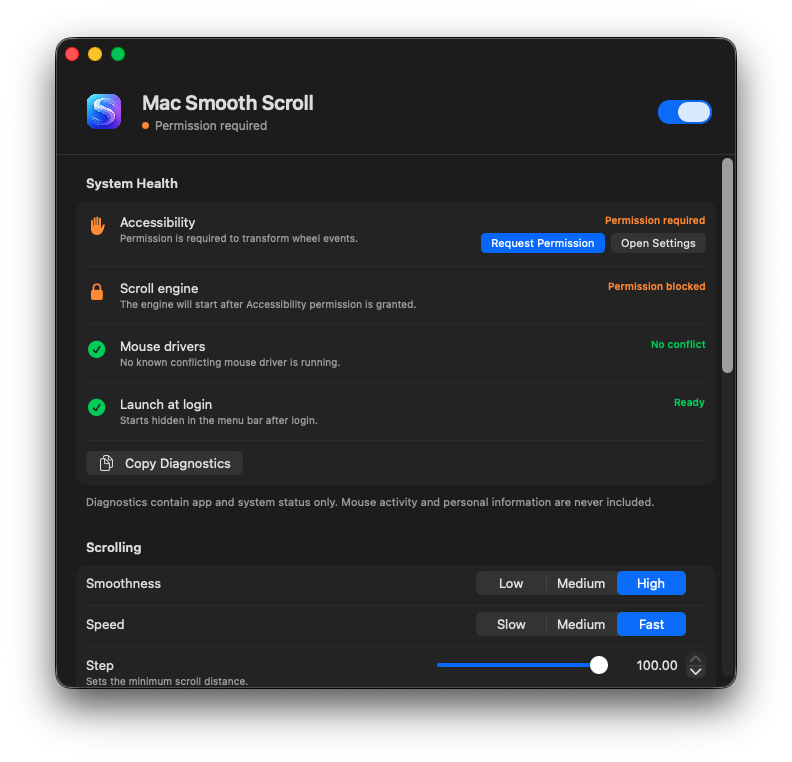
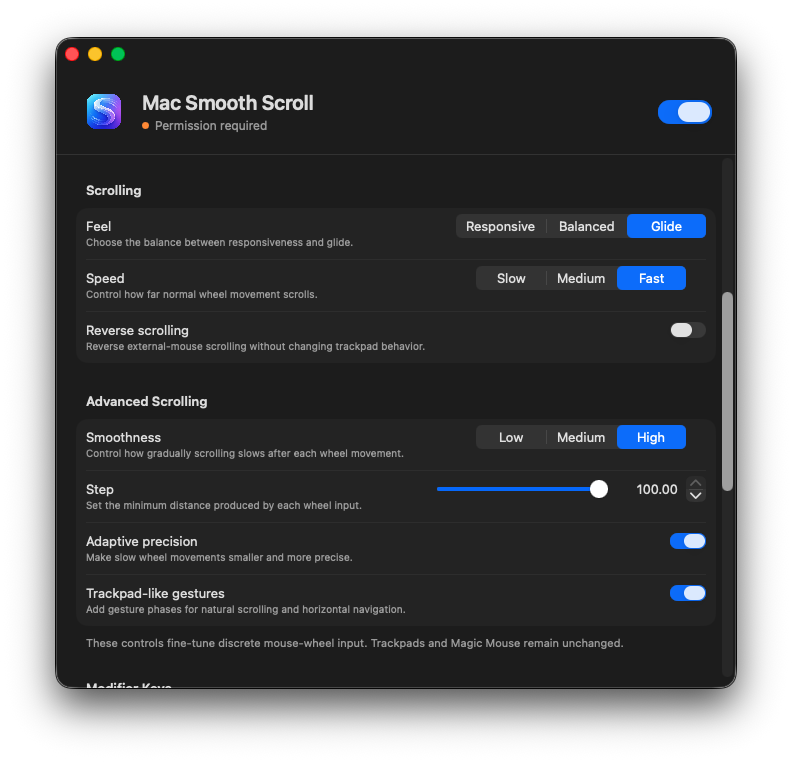
Organize scrolling settings

diff --git a/Sources/MacSmoothScroll/SettingsView.swift b/Sources/MacSmoothScroll/SettingsView.swift
@@ -12,6 +12,7 @@ struct SettingsView: View {
             Form {
                 systemHealthSection
                 scrollingSection
+                advancedScrollingSection
                 modifierSection
                 appSection
             }
@@ -25,7 +26,7 @@ struct SettingsView: View {
                 settings.resetDefaults()
             }
         } message: {
-            Text("Smoothness, speed, direction, precision, and modifier keys will return to their defaults.")
+            Text("Scrolling, advanced tuning, and modifier keys will return to their defaults.")
         }
     }
 
@@ -210,18 +211,25 @@ struct SettingsView: View {
 
     private var scrollingSection: some View {
         Section("Scrolling") {
-            LabeledContent("Smoothness") {
-                Picker("Smoothness", selection: $settings.smoothness) {
-                    ForEach(Smoothness.allCases) { level in
-                        Text(level.rawValue).tag(level)
+            LabeledContent {
+                Picker("Scroll feel", selection: $settings.feel) {
+                    ForEach(ScrollFeel.allCases) { feel in
+                        Text(feel.rawValue).tag(feel)
                     }
                 }
                 .pickerStyle(.segmented)
                 .labelsHidden()
                 .frame(width: 250)
+            } label: {
+                VStack(alignment: .leading, spacing: 2) {
+                    Text("Feel")
+                    Text("Choose the balance between responsiveness and glide.")
+                        .font(.caption)
+                        .foregroundStyle(.secondary)
+                }
             }
 
-            LabeledContent("Speed") {
+            LabeledContent {
                 Picker("Speed", selection: $settings.speed) {
                     ForEach(ScrollSpeed.allCases) { speed in
                         Text(speed.rawValue).tag(speed)
@@ -230,6 +238,44 @@ struct SettingsView: View {
                 .pickerStyle(.segmented)
                 .labelsHidden()
                 .frame(width: 250)
+            } label: {
+                VStack(alignment: .leading, spacing: 2) {
+                    Text("Speed")
+                    Text("Control how far normal wheel movement scrolls.")
+                        .font(.caption)
+                        .foregroundStyle(.secondary)
+                }
+            }
+
+            Toggle(isOn: $settings.reverseDirection) {
+                VStack(alignment: .leading, spacing: 2) {
+                    Text("Reverse scrolling")
+                    Text("Reverse external-mouse scrolling without changing trackpad behavior.")
+                        .font(.caption)
+                        .foregroundStyle(.secondary)
+                }
+            }
+        }
+    }
+
+    private var advancedScrollingSection: some View {
+        Section {
+            LabeledContent {
+                Picker("Smoothness", selection: $settings.smoothness) {
+                    ForEach(Smoothness.allCases) { level in
+                        Text(level.rawValue).tag(level)
+                    }
+                }
+                .pickerStyle(.segmented)
+                .labelsHidden()
+                .frame(width: 250)
+            } label: {
+                VStack(alignment: .leading, spacing: 2) {
+                    Text("Smoothness")
+                    Text("Control how gradually scrolling slows after each wheel movement.")
+                        .font(.caption)
+                        .foregroundStyle(.secondary)
+                }
             }
 
             LabeledContent {
@@ -263,43 +309,7 @@ struct SettingsView: View {
             } label: {
                 VStack(alignment: .leading, spacing: 2) {
                     Text("Step")
-                    Text("Sets the minimum scroll distance.")
-                        .font(.caption)
-                        .foregroundStyle(.secondary)
-                }
-            }
-
-            LabeledContent {
-                Picker("Scroll feel", selection: $settings.feel) {
-                    ForEach(ScrollFeel.allCases) { feel in
-                        Text(feel.rawValue).tag(feel)
-                    }
-                }
-                .pickerStyle(.segmented)
-                .labelsHidden()
-                .frame(width: 250)
-            } label: {
-                VStack(alignment: .leading, spacing: 2) {
-                    Text("Scroll feel")
-                    Text("Controls responsiveness, acceleration, and direction changes.")
-                        .font(.caption)
-                        .foregroundStyle(.secondary)
-                }
-            }
-
-            Toggle(isOn: $settings.trackpadSimulation) {
-                VStack(alignment: .leading, spacing: 2) {
-                    Text("Trackpad simulation")
-                    Text("Adds gesture phases for natural scrolling and horizontal navigation.")
-                        .font(.caption)
-                        .foregroundStyle(.secondary)
-                }
-            }
-
-            Toggle(isOn: $settings.reverseDirection) {
-                VStack(alignment: .leading, spacing: 2) {
-                    Text("Reverse direction")
-                    Text("Reverse external mouse scrolling without changing trackpad behavior.")
+                    Text("Set the minimum distance produced by each wheel input.")
                         .font(.caption)
                         .foregroundStyle(.secondary)
                 }
@@ -308,40 +318,53 @@ struct SettingsView: View {
             Toggle(isOn: $settings.adaptivePrecision) {
                 VStack(alignment: .leading, spacing: 2) {
                     Text("Adaptive precision")
-                    Text("Slow wheel movements automatically produce smaller, more precise steps.")
+                    Text("Make slow wheel movements smaller and more precise.")
                         .font(.caption)
                         .foregroundStyle(.secondary)
                 }
             }
+
+            Toggle(isOn: $settings.trackpadSimulation) {
+                VStack(alignment: .leading, spacing: 2) {
+                    Text("Trackpad-like gestures")
+                    Text("Add gesture phases for natural scrolling and horizontal navigation.")
+                        .font(.caption)
+                        .foregroundStyle(.secondary)
+                }
+            }
+        } header: {
+            Text("Advanced Scrolling")
+        } footer: {
+            Text("These controls fine-tune discrete mouse-wheel input. Trackpads and Magic Mouse remain unchanged.")
         }
     }
 
     private var modifierSection: some View {
         Section {
             modifierRow(
-                title: "Scroll horizontally",
+                title: "Horizontal scrolling",
                 detail: "Convert vertical wheel movement to horizontal scrolling.",
                 selection: $settings.horizontalModifier
             )
             modifierRow(
-                title: "Zoom in or out",
+                title: "Zoom",
                 detail: "Pass the modifier through to apps with scroll-to-zoom support.",
                 selection: $settings.zoomModifier
             )
             modifierRow(
-                title: "Scroll swiftly",
+                title: "Faster scrolling",
                 detail: "Temporarily increase scrolling speed.",
                 selection: $settings.swiftModifier
             )
             modifierRow(
-                title: "Scroll precisely",
+                title: "Precision scrolling",
                 detail: "Temporarily reduce scrolling speed.",
                 selection: $settings.preciseModifier
             )
         } header: {
-            Text("Keyboard Modifiers")
+            Text("Modifier Keys")
         } footer: {
-            Text("Transform actions take priority over zoom. Precision takes priority over swift scrolling.")
+            Text("Transform actions take priority over zoom. Precision scrolling takes priority over faster scrolling.")
         }
     }
 

diff --git a/README.md b/README.md
@@ -19,7 +19,7 @@ trackpad and Magic Mouse events untouched.
 - Configurable minimum wheel-step distance
 - Responsive, balanced, and glide feel presets
 - Display-synchronized motion on 60 Hz and high-refresh-rate screens
-- Optional trackpad-style gesture phases
+- Optional trackpad-like gesture phases
 - External-mouse-only reverse direction
 - Adaptive first-notch precision with cadence-based acceleration
 - Immediate braking on direction changes and bounded maximum velocity
@@ -105,18 +105,18 @@ required, follow the [permission troubleshooting steps](docs/TROUBLESHOOTING.md#
 - Check **System Health** for live Accessibility, scroll-engine, mouse-driver,
   and login-helper status. When attention is required, use the recovery button
   shown on the affected row.
-- Use **Smoothness** to control how gradually wheel movement decays.
-- Use **Speed** to scale normal wheel movement.
+- Under **Scrolling**, choose **Feel**, **Speed**, and whether external-mouse
+  scrolling should be reversed.
+- Under **Advanced Scrolling**, use **Smoothness** to control how gradually
+  wheel movement decays.
 - Use **Step** to set the minimum distance generated by each discrete wheel
   input. Lower values favor precision; higher values move farther per notch.
-- Use **Scroll feel** to choose how strongly rapid input accelerates and how
-  quickly the app responds to a direction change.
-- Enable **Trackpad simulation** to add gesture phases used by natural
-  scrolling and horizontal navigation.
-- Enable **Reverse direction** to reverse only external mouse scrolling.
 - Enable **Adaptive precision** to make the first wheel step after idle precise,
   then ramp smoothly as the wheel is moved faster.
-- Assign modifiers for horizontal, zoom, swift, and precise scrolling.
+- Enable **Trackpad-like gestures** to add gesture phases used by natural
+  scrolling and horizontal navigation.
+- Assign modifier keys for horizontal scrolling, zoom, faster scrolling, and
+  precision scrolling.
 
 Trackpad and Magic Mouse events are passed through unchanged. The selected zoom
 modifier is forwarded for the complete wheel burst only when no higher-priority

diff --git a/docs/PRIVACY.md b/docs/PRIVACY.md
@@ -18,7 +18,7 @@ The following choices are stored locally with macOS `UserDefaults`:
 
 - Whether smooth scrolling is enabled
 - Smoothness and speed
-- Trackpad simulation, reverse direction, and adaptive precision
+- Trackpad-like gestures, reverse scrolling, and adaptive precision
 - Modifier assignments
 - Menu-bar visibility
 - Launch at Login preference
